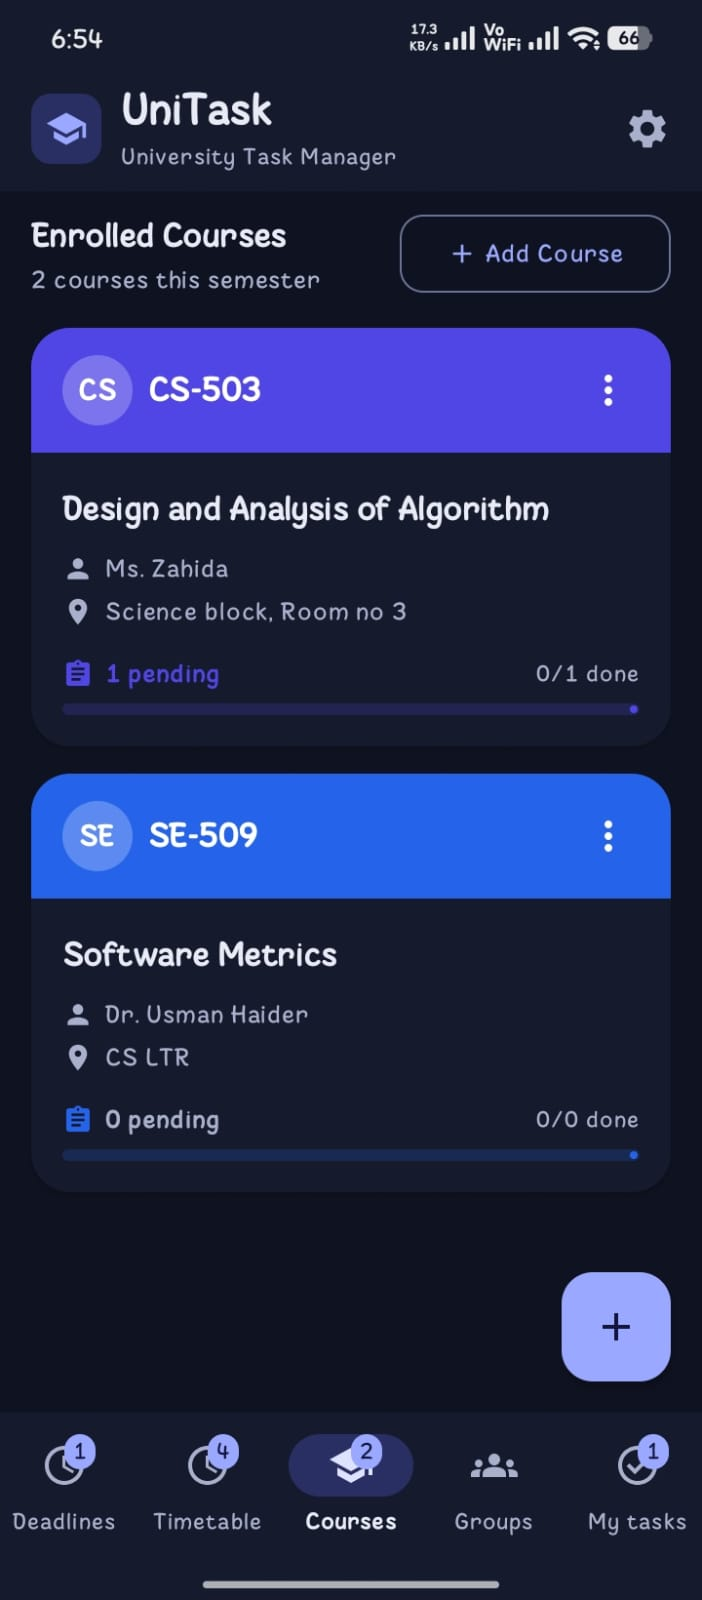
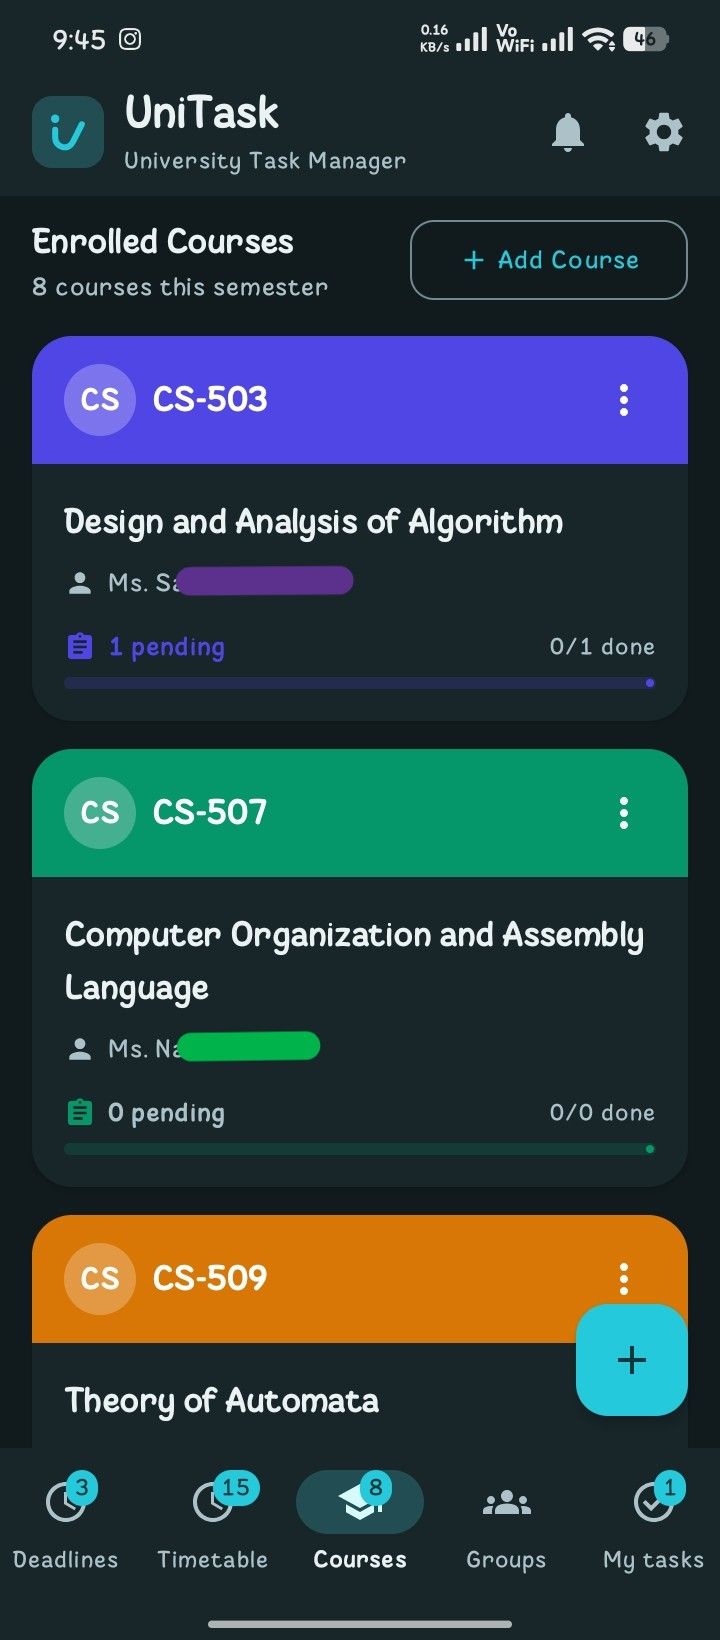
Update README screenshots for v3.1.0
Refresh the README screenshot gallery with the latest deadlines, timetable, courses, settings, and group chat images.

diff --git a/README.md b/README.md
@@ -25,18 +25,19 @@ UniTask helps students keep track of what is due, when classes start and what th
 - **Sign in with Google (optional)** to add cloud backup and shared study groups with chat.
 - **Personal project.** No ads and no tracking, built to solve everyday planning problems for me and my classmates.
 
-## Screenshots (from v2.0.0)
+## Screenshots (from v3.1.0)
 
 <p align="center">
-  <img src="docs/screenshots/deadlines.jpeg" width="20%" alt="Deadlines" />
-  <img src="docs/screenshots/my-tasks.jpeg" width="20%" alt="My tasks" />
-  <img src="docs/screenshots/group-chat.jpeg" width="20%" alt="Group chat" />
+  <img src="docs/screenshots/deadlines_top_nc.jpeg" width="20%" alt="Deadlines" />
+  <img src="docs/screenshots/deadlines_bottom_cv.jpeg" width="20%" alt="Deadlines" />
+  <img src="docs/screenshots/timetable.jpeg" width="20%" alt="Timetable" />
 </p>
 <p align="center">
   <img src="docs/screenshots/courses.jpeg" width="20%" alt="Courses" />
   <img src="docs/screenshots/settings.jpeg" width="20%" alt="Settings" />
+  <img src="docs/screenshots/group_chat.jpeg" width="20%" alt="Group chat" />
 </p>
-<p align="center"><sub>Deadlines · My tasks · Group chat · Courses · Settings</sub></p>
+<p align="center"><sub>Deadlines · Deadlines · Timetable · Courses · Settings · Group Chat</sub></p>
 
 ## Download
 
